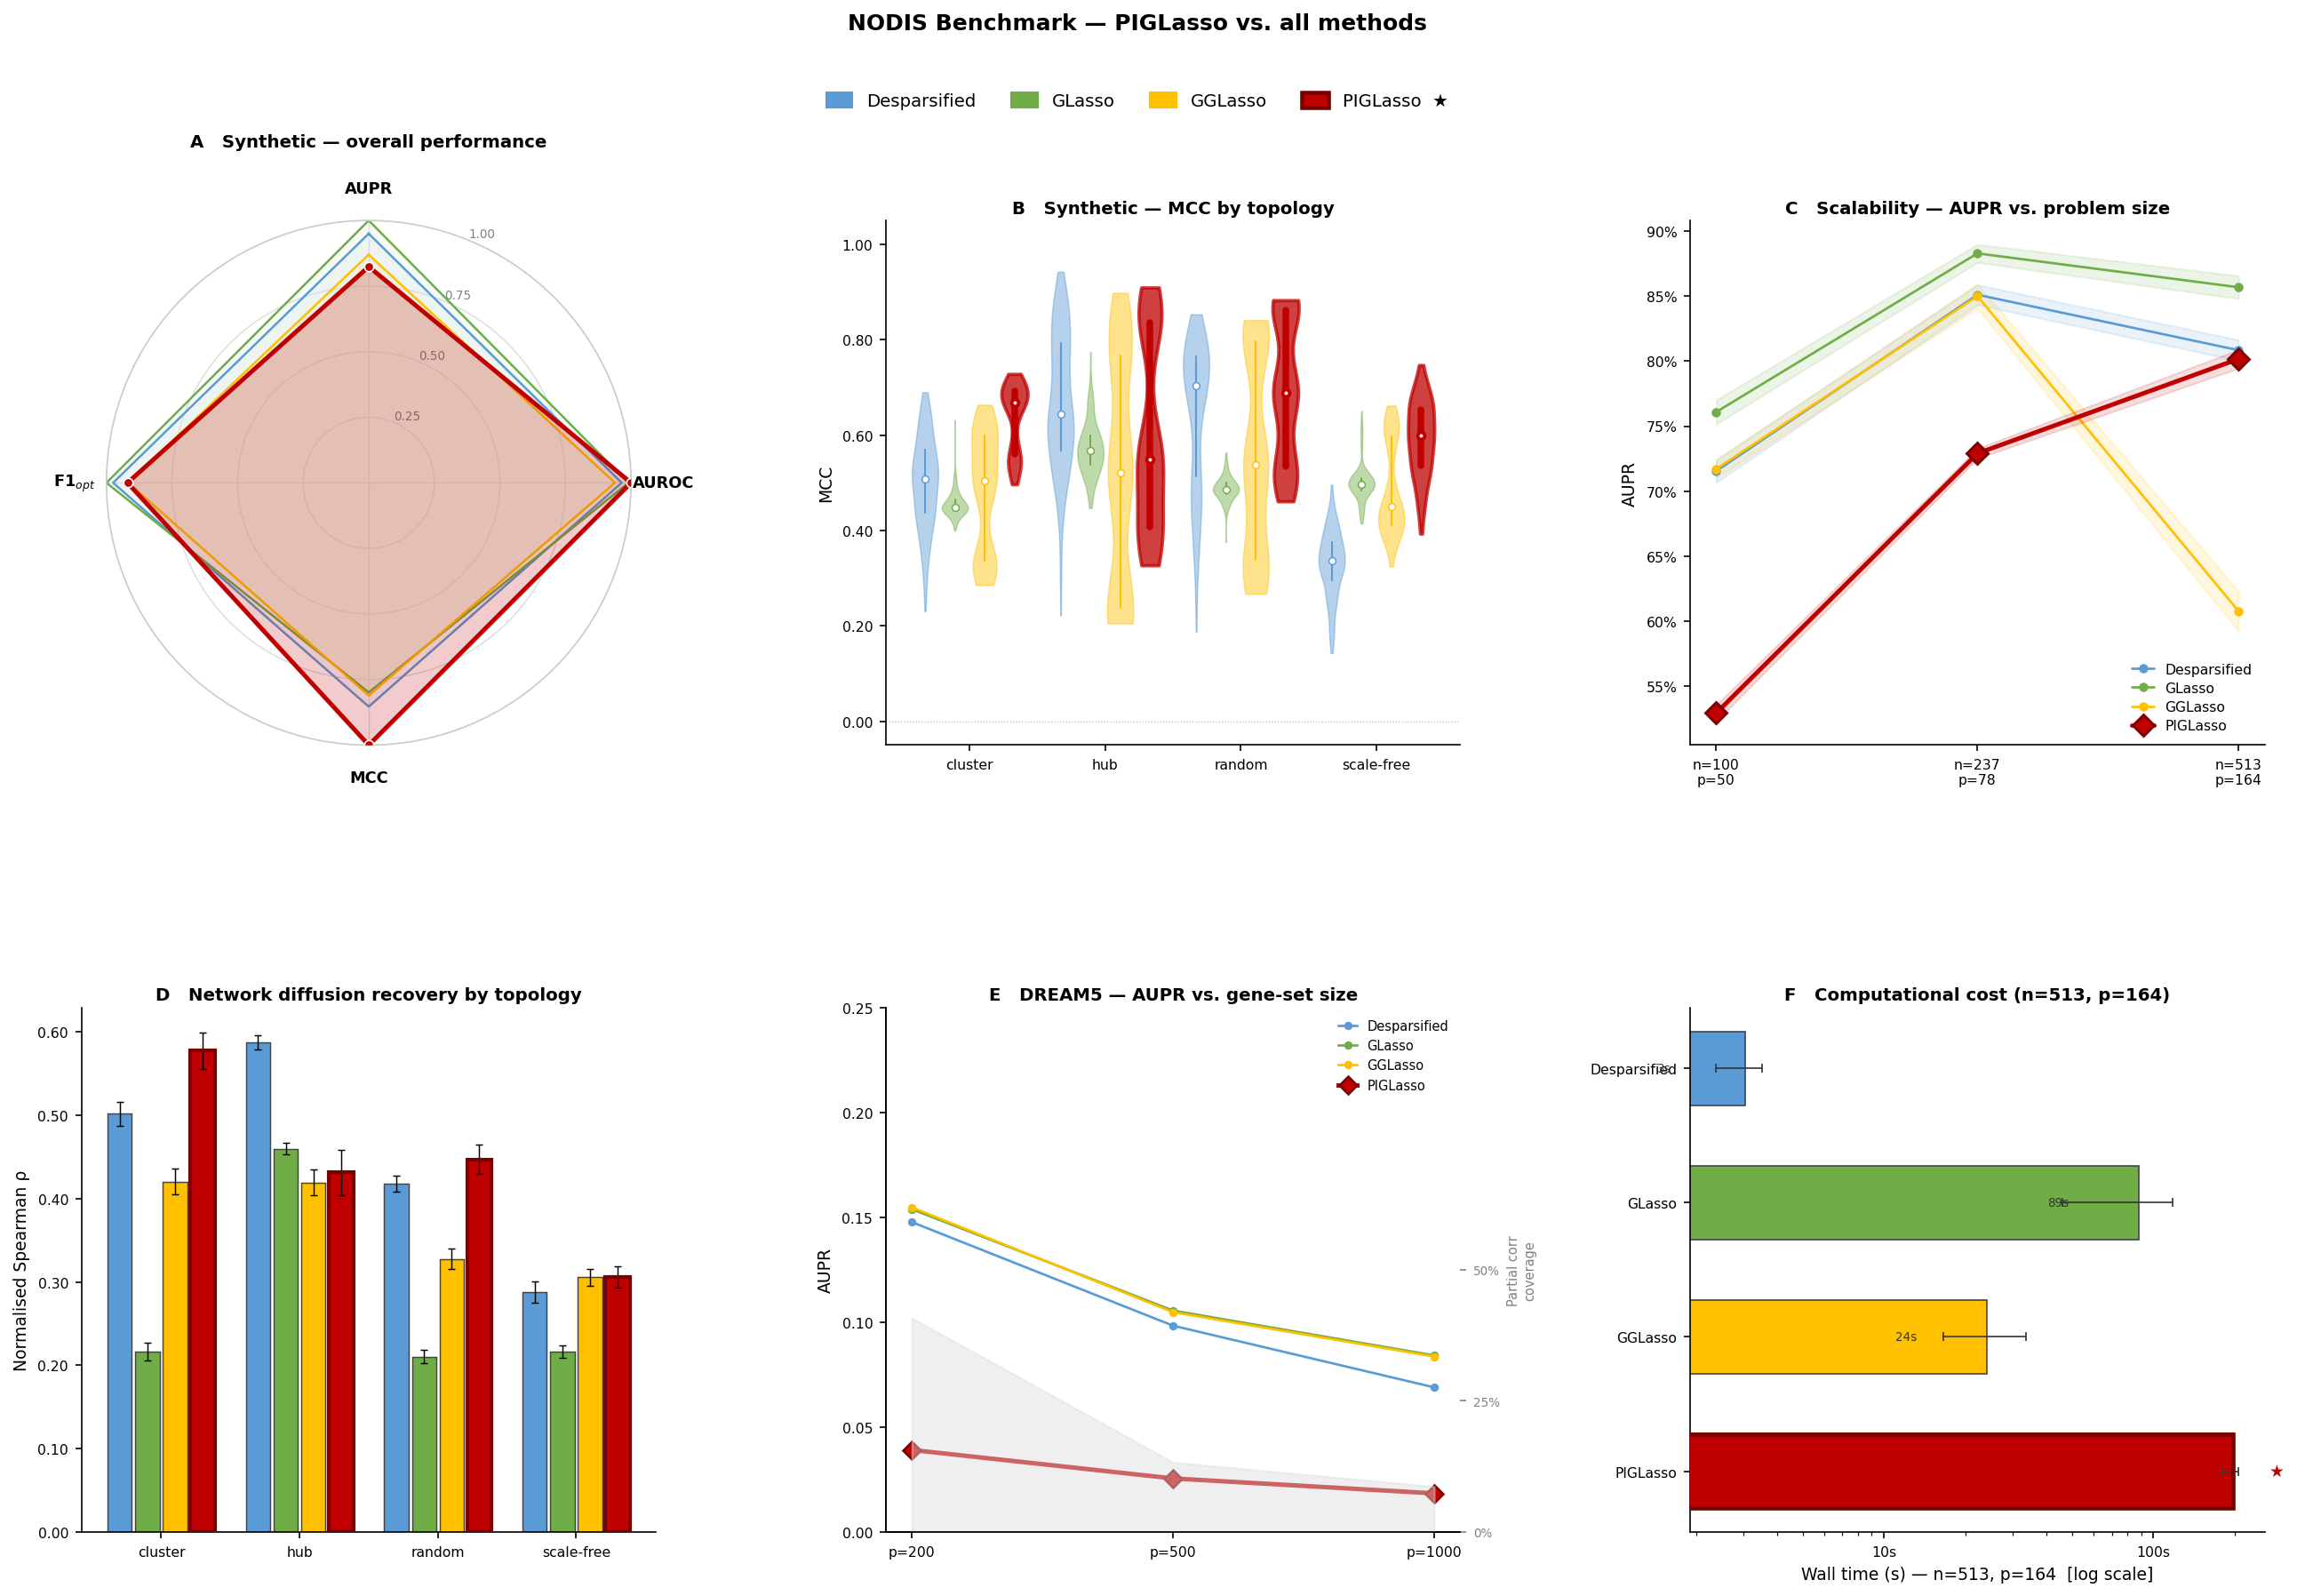
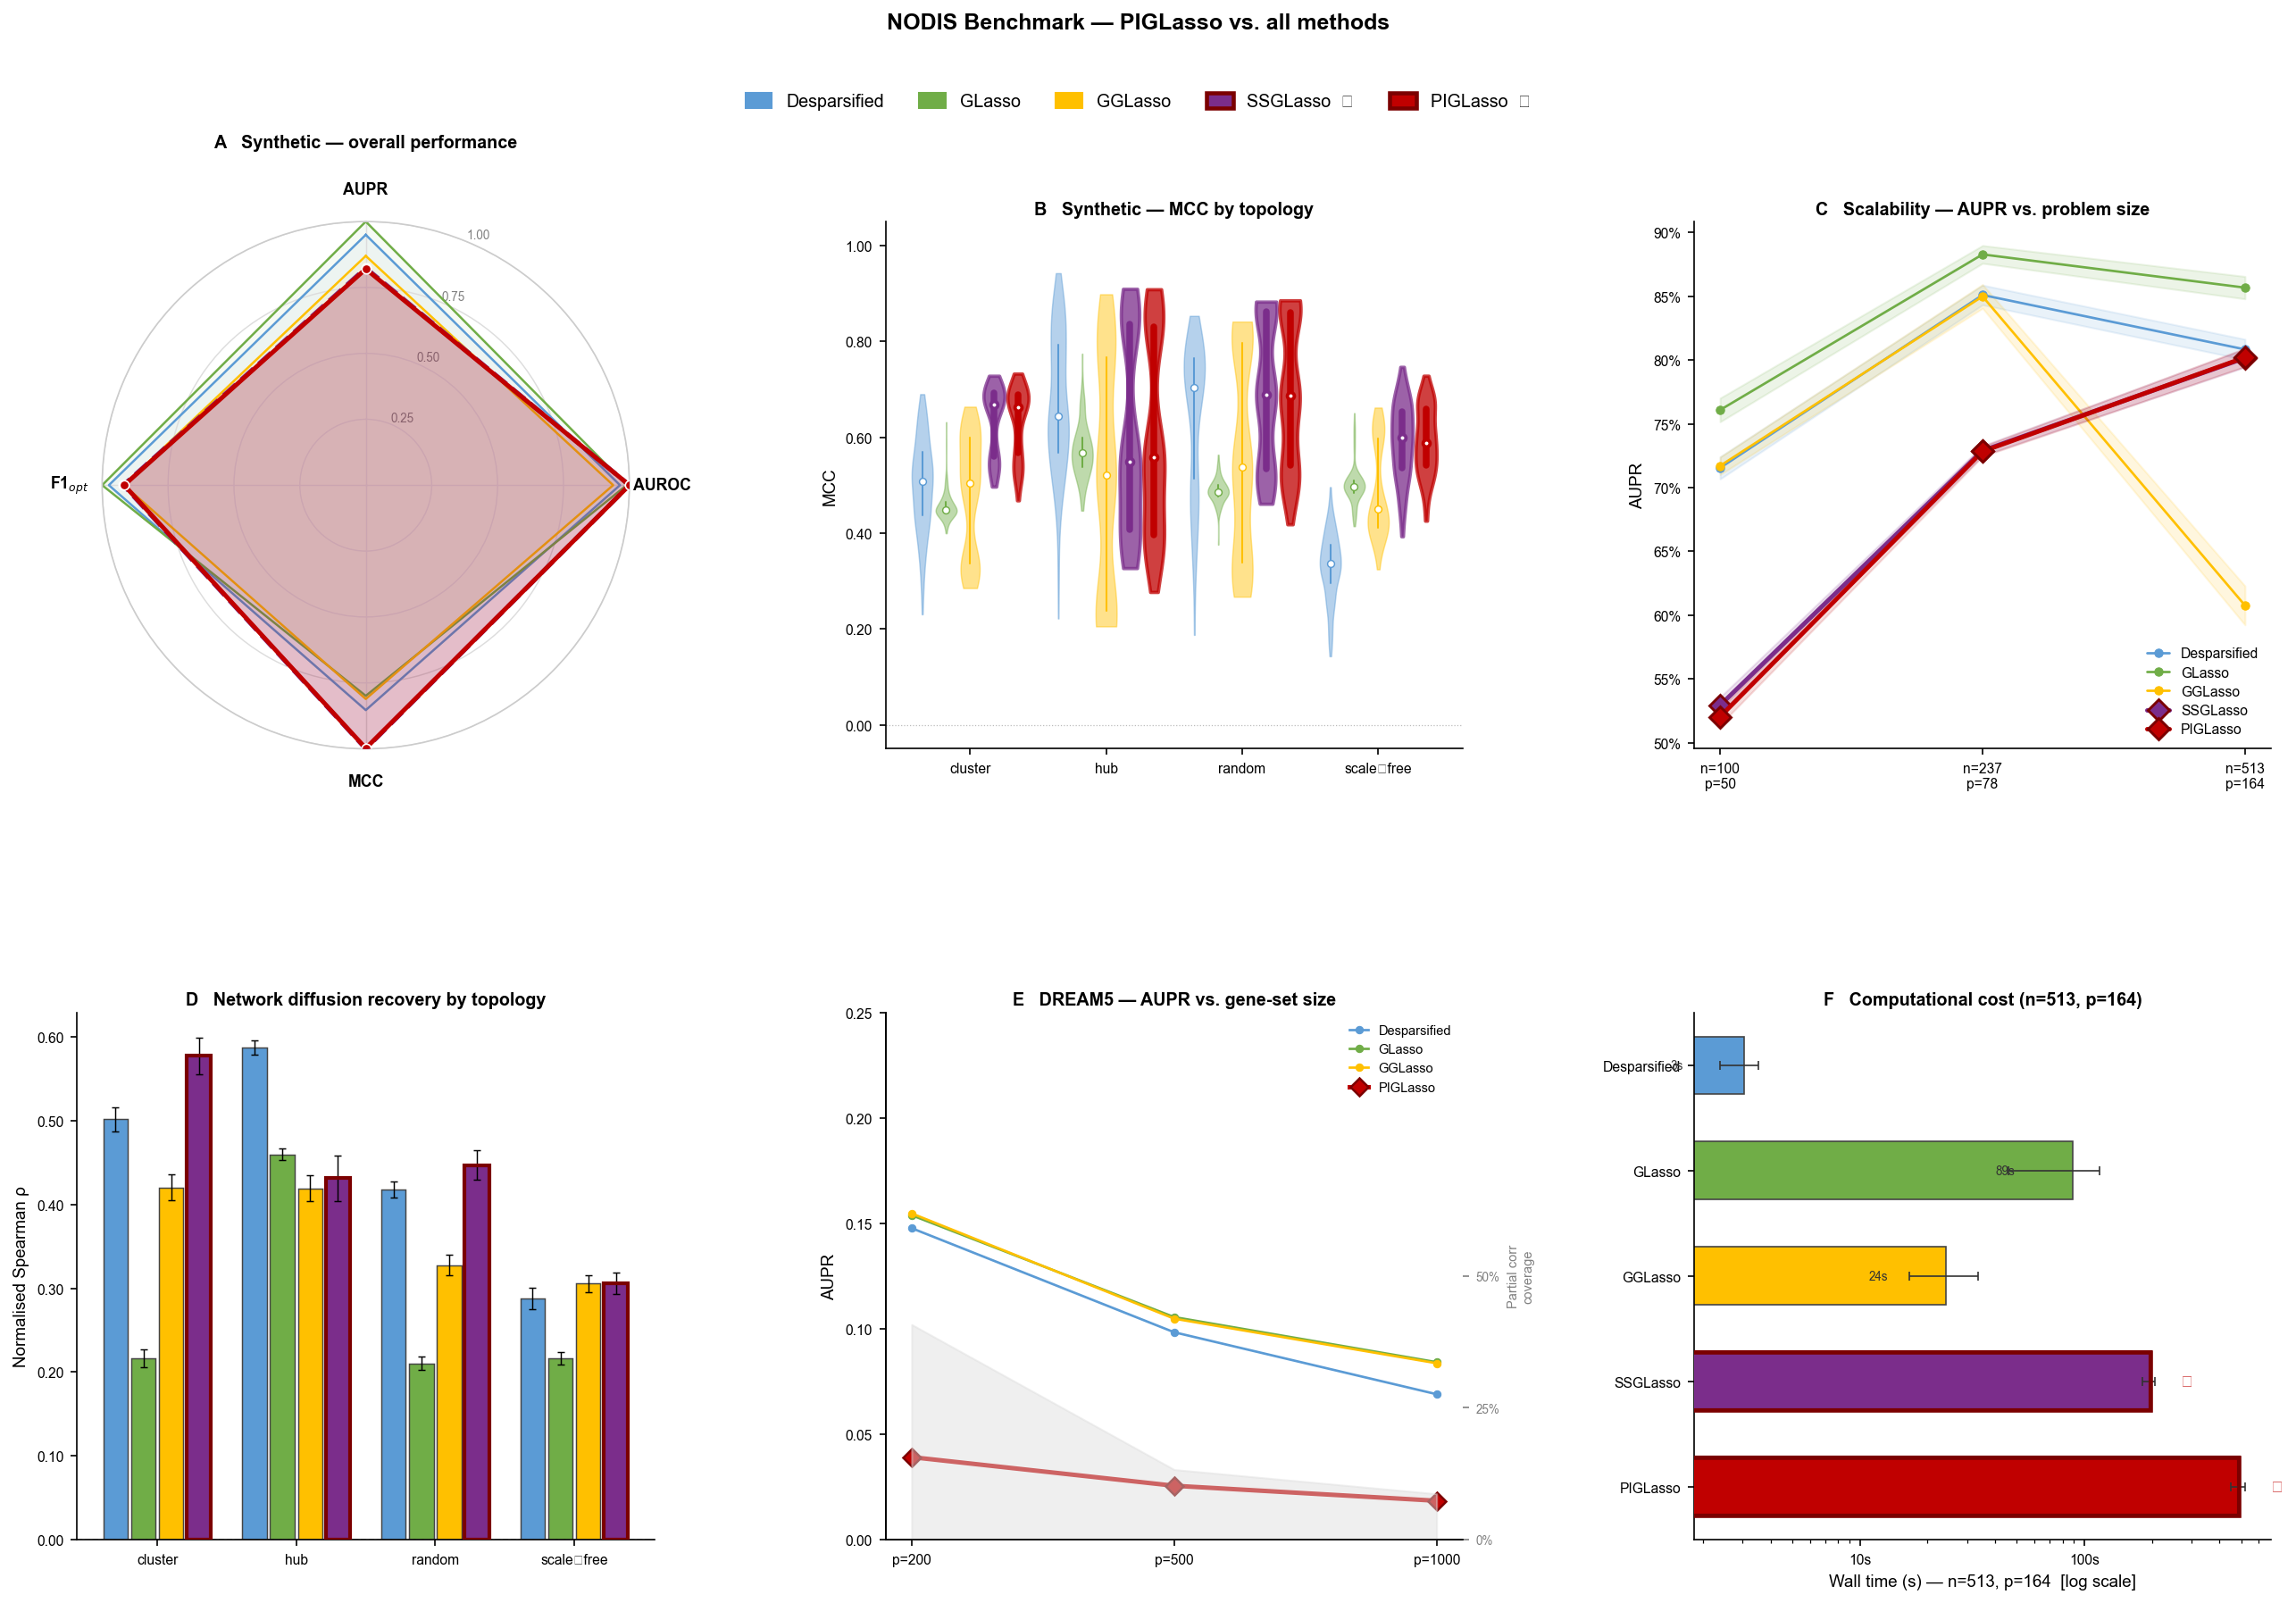
feat: add SSGLasso/PIGLasso split, MCC plot, oracle prior sweep
- plot_benchmark_comparison: show piglasso (SSGLasso, purple) and
  piglasso_corr (PIGLasso, crimson) as separate methods; fix Panel A
  radar zorder/linestyle so SSGLasso is visible; fix Panel E to use
  piglasso_corr directly without remapping
- plot_mcc_synthetic_comparison: new script for MCC comparison with
  same SSGLasso/PIGLasso split and colour scheme
- piglasso_oracle_sweep.job: fix NODIS_DIR path; encode noise level
  in method name (n00/n01/n02/n03) to avoid filename collisions; add
  noise=0.0 (perfect oracle) as fourth level; update array to 0-99
- run_synthetic.py: support piglasso_oracle_n00/n01/n02/n03 method
  keys with noise level derived from method name

diff --git a/scripts/plot_mcc_synthetic_comparison.py b/scripts/plot_mcc_synthetic_comparison.py
@@ -1,0 +1,242 @@
+"""
+plot_mcc_synthetic_comparison.py
+---------------------------------
+Publication-quality 2-panel MCC comparison from mcc_synthetic_comparison.csv.
+Matches the visual style of benchmark_comparison.pdf.
+
+Panels:
+  A  Grand-mean MCC — horizontal bar chart
+  B  MCC per topology — grouped bar chart
+
+Usage:
+    cd NODIS/
+    python scripts/plot_mcc_synthetic_comparison.py
+    python scripts/plot_mcc_synthetic_comparison.py --out figures/mcc_synthetic_comparison.pdf
+"""
+
+import argparse
+import os
+import warnings
+
+import matplotlib
+import matplotlib.patches as mpatches
+import matplotlib.pyplot as plt
+import matplotlib.ticker as mticker
+import numpy as np
+import pandas as pd
+from matplotlib.gridspec import GridSpec
+
+warnings.filterwarnings("ignore")
+
+# ---------------------------------------------------------------------------
+# Global style — identical to benchmark_comparison.py
+# ---------------------------------------------------------------------------
+matplotlib.rcParams.update({
+    "font.family":        "sans-serif",
+    "font.sans-serif":    ["Arial", "Helvetica", "DejaVu Sans"],
+    "font.size":          8,
+    "axes.labelsize":     9,
+    "axes.titlesize":     9.5,
+    "xtick.labelsize":    7.5,
+    "ytick.labelsize":    7.5,
+    "legend.fontsize":    8,
+    "figure.dpi":         300,
+    "axes.spines.top":    False,
+    "axes.spines.right":  False,
+    "axes.linewidth":     0.8,
+    "xtick.major.width":  0.8,
+    "ytick.major.width":  0.8,
+    "xtick.major.size":   3.5,
+    "ytick.major.size":   3.5,
+    "pdf.fonttype":       42,
+    "ps.fonttype":        42,
+})
+
+# ---------------------------------------------------------------------------
+# Colour + method metadata — identical to benchmark_comparison.py
+# ---------------------------------------------------------------------------
+METHODS_ORDER = ["glasso", "desparsified", "gglasso", "piglasso", "piglasso_corr"]
+
+PALETTE = {
+    "desparsified": "#5B9BD5",
+    "glasso":       "#70AD47",
+    "gglasso":      "#FFC000",
+    "piglasso":     "#7B2D8B",   # purple — SSGLasso (no prior)
+    "piglasso_corr":"#C00000",   # crimson — PIGLasso (with prior)
+}
+LABELS = {
+    "desparsified": "Desparsified",
+    "glasso":       "GLasso",
+    "gglasso":      "GGLasso",
+    "piglasso":     "SSGLasso",
+    "piglasso_corr":"PIGLasso",
+}
+PIG_METHODS = {"piglasso", "piglasso_corr"}
+ZO_PIG  = 5
+ZO_BASE = 2
+
+TOPOS = ["cluster", "hub", "random", "scale-free"]
+
+
+# ---------------------------------------------------------------------------
+# Panel A — Grand-mean MCC horizontal bar chart
+# ---------------------------------------------------------------------------
+
+def _grand_mean_bars(ax, grand: pd.DataFrame, title: str):
+    # Sort ascending so best method ends up at top
+    grand = grand.sort_values("MCC", ascending=True).reset_index(drop=True)
+    methods = grand["method"].tolist()
+    values  = grand["MCC"].tolist()
+    n = len(methods)
+
+    for i, (m, v) in enumerate(zip(methods, values)):
+        color = PALETTE[m]
+        lw    = 2.0 if m in PIG_METHODS else 0.8
+        ec    = "#7B0000" if m == "piglasso_corr" else ("#4A1A5C" if m == "piglasso" else "#444444")
+        zo    = (ZO_PIG if m == "piglasso_corr" else ZO_PIG - 1) if m in PIG_METHODS else ZO_BASE
+
+        ax.barh(i, v, color=color, edgecolor=ec, linewidth=lw,
+                zorder=zo, height=0.6)
+        if m in PIG_METHODS:
+            ax.barh(i, v, color="none", edgecolor=ec,
+                    linewidth=2.2, zorder=zo + 1, height=0.6)
+
+        # Value label inside bar
+        ax.text(v - 0.005, i, f"{v:.3f}", va="center", ha="right",
+                fontsize=7.5,
+                color="white" if m in PIG_METHODS else "#333333",
+                fontweight="bold" if m in PIG_METHODS else "normal",
+                zorder=zo + 2)
+
+    ax.set_yticks(np.arange(n))
+    ax.set_yticklabels([LABELS[m] for m in methods])
+    ax.set_xlabel("MCC")
+    ax.set_xlim(0, 0.85)
+    ax.xaxis.set_major_formatter(mticker.FuncFormatter(lambda v, _: f"{v:.2f}"))
+    ax.set_title(title, pad=6, fontweight="bold")
+    ax.axvline(0, color="#bbbbbb", linewidth=0.6)
+
+
+# ---------------------------------------------------------------------------
+# Panel B — MCC per topology grouped bar chart
+# ---------------------------------------------------------------------------
+
+def _per_topology_bars(ax, per_topo: pd.DataFrame, title: str):
+    methods = [m for m in METHODS_ORDER if m in per_topo["method"].unique()]
+
+    n_topo  = len(TOPOS)
+    n_meth  = len(methods)
+    gw      = 0.82
+    bw      = gw / n_meth
+    offsets = np.linspace(-gw / 2 + bw / 2, gw / 2 - bw / 2, n_meth)
+
+    for ti, topo in enumerate(TOPOS):
+        for mi, m in enumerate(methods):
+            row = per_topo[(per_topo["topology"] == topo) & (per_topo["method"] == m)]
+            if row.empty:
+                continue
+            v     = float(row["MCC"].iloc[0])
+            xp    = ti + offsets[mi]
+            color = PALETTE[m]
+            lw    = 1.8 if m in PIG_METHODS else 0.7
+            ec    = "#7B0000" if m == "piglasso_corr" else ("#4A1A5C" if m == "piglasso" else "#444444")
+            zo    = (ZO_PIG if m == "piglasso_corr" else ZO_PIG - 1) if m in PIG_METHODS else ZO_BASE
+
+            ax.bar(xp, v, bw * 0.90, color=color, edgecolor=ec,
+                   linewidth=lw, zorder=zo)
+            if m in PIG_METHODS:
+                ax.bar(xp, v, bw * 0.90, color="none", edgecolor=ec,
+                       linewidth=2.0, zorder=zo + 1)
+
+            ax.text(xp, v + 0.008, f"{v:.2f}", ha="center", va="bottom",
+                    fontsize=6.0,
+                    color="#7B0000" if m == "piglasso_corr" else ("#4A1A5C" if m == "piglasso" else "#444444"),
+                    fontweight="bold" if m in PIG_METHODS else "normal")
+
+    ax.set_xticks(np.arange(n_topo))
+    ax.set_xticklabels([t.replace("-", "\u2011") for t in TOPOS])
+    ax.set_ylabel("MCC")
+    ax.set_ylim(0, 0.85)
+    ax.yaxis.set_major_formatter(mticker.FuncFormatter(lambda v, _: f"{v:.2f}"))
+    ax.set_title(title, pad=6, fontweight="bold")
+    ax.axhline(0, color="#bbbbbb", linewidth=0.6)
+
+
+# ---------------------------------------------------------------------------
+# Build figure
+# ---------------------------------------------------------------------------
+
+def build_figure(df: pd.DataFrame) -> plt.Figure:
+    grand    = df[df["scope"] == "grand_mean"].copy()
+    per_topo = df[df["scope"] == "per_topology"].copy()
+
+    fig = plt.figure(figsize=(12, 5))
+    gs  = GridSpec(1, 2, figure=fig,
+                   wspace=0.38,
+                   left=0.08, right=0.97,
+                   top=0.85, bottom=0.12)
+
+    ax_A = fig.add_subplot(gs[0, 0])
+    _grand_mean_bars(ax_A, grand,
+                     title="A   Grand-mean MCC (synthetic, all topologies)")
+
+    ax_B = fig.add_subplot(gs[0, 1])
+    _per_topology_bars(ax_B, per_topo,
+                       title="B   MCC by network topology")
+
+    # Shared legend — both piglasso (SSGLasso) and piglasso_corr (PIGLasso) shown
+    methods_legend = [m for m in METHODS_ORDER if m in df["method"].unique()]
+    handles = []
+    for m in methods_legend:
+        lw    = 2.2 if m in PIG_METHODS else 1.0
+        ec    = "#7B0000" if m == "piglasso_corr" else ("#4A1A5C" if m == "piglasso" else PALETTE[m])
+        label = LABELS[m] + ("  \u2605" if m in PIG_METHODS else "")
+        handles.append(mpatches.Patch(facecolor=PALETTE[m], edgecolor=ec,
+                                      linewidth=lw, label=label))
+
+    fig.legend(handles=handles, loc="upper center",
+               ncol=len(handles), frameon=False, fontsize=9,
+               bbox_to_anchor=(0.5, 1.00),
+               handlelength=1.5, handleheight=0.95, columnspacing=2.0)
+
+    fig.suptitle("Synthetic benchmark \u2014 MCC comparison",
+                 y=1.05, fontsize=11, fontweight="bold")
+
+    return fig
+
+
+# ---------------------------------------------------------------------------
+# CLI
+# ---------------------------------------------------------------------------
+
+def main():
+    parser = argparse.ArgumentParser()
+    parser.add_argument(
+        "--csv",
+        default=os.path.join(os.path.dirname(__file__), "..", "mcc_synthetic_comparison.csv"),
+    )
+    parser.add_argument("--out", default="figures/mcc_synthetic_comparison.pdf")
+    parser.add_argument("--dpi", type=int, default=300)
+    args = parser.parse_args()
+
+    print("Loading data \u2026")
+    df = pd.read_csv(args.csv)
+    print(f"  {len(df)} rows \u2014 methods: {sorted(df['method'].unique())}")
+
+    print("Building figure \u2026")
+    fig = build_figure(df)
+
+    os.makedirs(os.path.dirname(os.path.abspath(args.out)), exist_ok=True)
+    fig.savefig(args.out, dpi=args.dpi, bbox_inches="tight")
+    print(f"Saved \u2192 {args.out}")
+
+    if args.out.endswith(".pdf"):
+        png_out = args.out.replace(".pdf", ".png")
+        fig.savefig(png_out, dpi=150, bbox_inches="tight")
+        print(f"Saved \u2192 {png_out}")
+
+    plt.close(fig)
+
+
+if __name__ == "__main__":
+    main()

diff --git a/scripts/plot_benchmark_comparison.py b/scripts/plot_benchmark_comparison.py
@@ -61,20 +61,20 @@ matplotlib.rcParams.update({
 # ---------------------------------------------------------------------------
 # Colour + method metadata
 # ---------------------------------------------------------------------------
-METHODS_MAIN = ["desparsified", "glasso", "gglasso", "piglasso"]
+METHODS_MAIN = ["desparsified", "glasso", "gglasso", "piglasso", "piglasso_corr"]
 
 PALETTE = {
     "desparsified": "#5B9BD5",
     "glasso":       "#70AD47",
     "gglasso":      "#FFC000",
-    "piglasso":     "#C00000",   # crimson — PIGLasso highlight
-    "piglasso_corr":"#C00000",
+    "piglasso":     "#7B2D8B",   # purple — SSGLasso (no prior)
+    "piglasso_corr":"#C00000",   # crimson — PIGLasso (with prior)
 }
 LABELS = {
     "desparsified": "Desparsified",
     "glasso":       "GLasso",
     "gglasso":      "GGLasso",
-    "piglasso":     "PIGLasso",
+    "piglasso":     "SSGLasso",
     "piglasso_corr":"PIGLasso",
 }
 PIG_METHODS = {"piglasso", "piglasso_corr"}
@@ -140,13 +140,15 @@ def _radar(ax, data, methods, metrics, metric_labels, title):
     for m in methods:
         vals = norm[m] + norm[m][:1]
         color = PALETTE[m]
-        lw   = 2.4 if m in PIG_METHODS else 1.2
-        zo   = ZO_PIG if m in PIG_METHODS else ZO_BASE
-        alpha_fill = 0.20 if m in PIG_METHODS else 0.06
-        ax.plot(angles, vals, color=color, linewidth=lw,
+        lw    = 2.4 if m in PIG_METHODS else 1.2
+        # piglasso_corr (PIGLasso) on top; piglasso (SSGLasso) just below with dashed line
+        zo    = (ZO_PIG if m == "piglasso_corr" else ZO_PIG - 1) if m in PIG_METHODS else ZO_BASE
+        ls    = "--" if m == "piglasso" else "-"
+        alpha_fill = 0.15 if m in PIG_METHODS else 0.06
+        ax.plot(angles, vals, color=color, linewidth=lw, linestyle=ls,
                 zorder=zo, label=LABELS[m])
         ax.fill(angles, vals, color=color, alpha=alpha_fill, zorder=zo - 1)
-        # Mark PIGLasso vertices
+        # Mark vertices for both PIG methods
         if m in PIG_METHODS:
             ax.scatter(angles[:-1], vals[:-1], color=color, s=25,
                        zorder=zo + 1, edgecolors="white", linewidths=0.8)
@@ -319,17 +321,16 @@ def _dream5_line(ax, data, title):
         ax.set_title(title, pad=4, fontweight="bold")
         return
 
-    # Map piglasso_corr → piglasso for display
-    d5["method_disp"] = d5["method"].replace({"piglasso_corr": "piglasso"})
     # Remove piglasso_string (duplicate) for cleanliness
     d5 = d5[d5["method"] != "piglasso_string"]
 
-    disp_methods = ["desparsified", "glasso", "gglasso", "piglasso"]
+    # Use piglasso_corr directly as PIGLasso; plain piglasso has no dream5 data
+    disp_methods = ["desparsified", "glasso", "gglasso", "piglasso_corr"]
     ps = [200, 500, 1000]
     x  = np.arange(len(ps))
 
     for m in disp_methods:
-        sub = d5[d5["method_disp"] == m]
+        sub = d5[d5["method"] == m]
         mus = [sub.loc[sub["p"] == p, "aupr"].mean() for p in ps]
         color = PALETTE[m]
         lw    = 2.4 if m in PIG_METHODS else 1.3

diff --git a/benchmarks/run_synthetic.py b/benchmarks/run_synthetic.py
@@ -39,7 +39,9 @@ def main() -> None:
     parser.add_argument("--method", required=True,
                         choices=["desparsified", "glasso", "gglasso", "silggm_r",
                                  "piglasso", "piglasso_adaptive", "piglasso_corr",
-                                 "piglasso_oracle"])
+                                 "piglasso_oracle",
+                                 "piglasso_oracle_n01", "piglasso_oracle_n02",
+                                 "piglasso_oracle_n03", "piglasso_oracle_n00"])
     parser.add_argument("--rep", type=int, required=True)
     parser.add_argument("--out", default="results/raw/")
     parser.add_argument("--alpha", type=float, default=0.05)
@@ -134,13 +136,19 @@ def main() -> None:
         adj = est.get_adjacency()
         scores = est.precision_
 
-    elif args.method == "piglasso_oracle":
+    elif args.method in ("piglasso_oracle",
+                         "piglasso_oracle_n00", "piglasso_oracle_n01",
+                         "piglasso_oracle_n02", "piglasso_oracle_n03"):
         from nodis.estimators.piglasso import PIGLassoEstimator
         from nodis.estimators.prior_utils import build_noisy_oracle_prior
+        # Noise level encoded in method name (n00=0.0, n01=0.1, n02=0.2, n03=0.3)
+        # Falls back to --prior-noise arg when method == "piglasso_oracle"
+        noise_map = {"piglasso_oracle_n00": 0.0, "piglasso_oracle_n01": 0.1,
+                     "piglasso_oracle_n02": 0.2, "piglasso_oracle_n03": 0.3}
+        noise = noise_map.get(args.method, args.prior_noise)
         adj_true_bin = (data.Omega != 0).astype(float)
         np.fill_diagonal(adj_true_bin, 0)
-        prior = build_noisy_oracle_prior(adj_true_bin, noise=args.prior_noise,
-                                         seed=args.rep)
+        prior = build_noisy_oracle_prior(adj_true_bin, noise=noise, seed=args.rep)
         est = PIGLassoEstimator(n_jobs=args.n_jobs, prior_weight=args.prior_weight)
         est.fit(data.X, prior=prior)
         adj = est.get_adjacency()